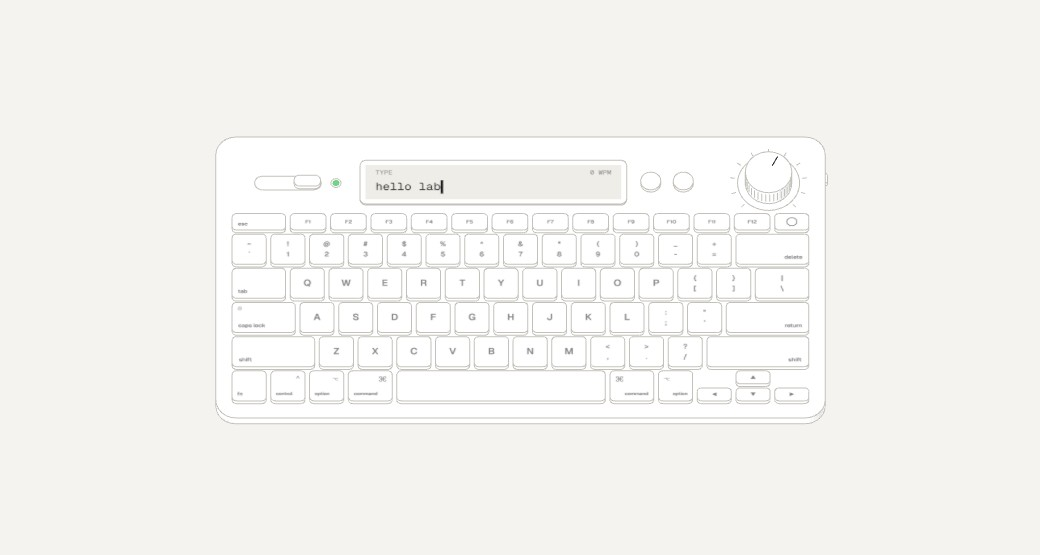
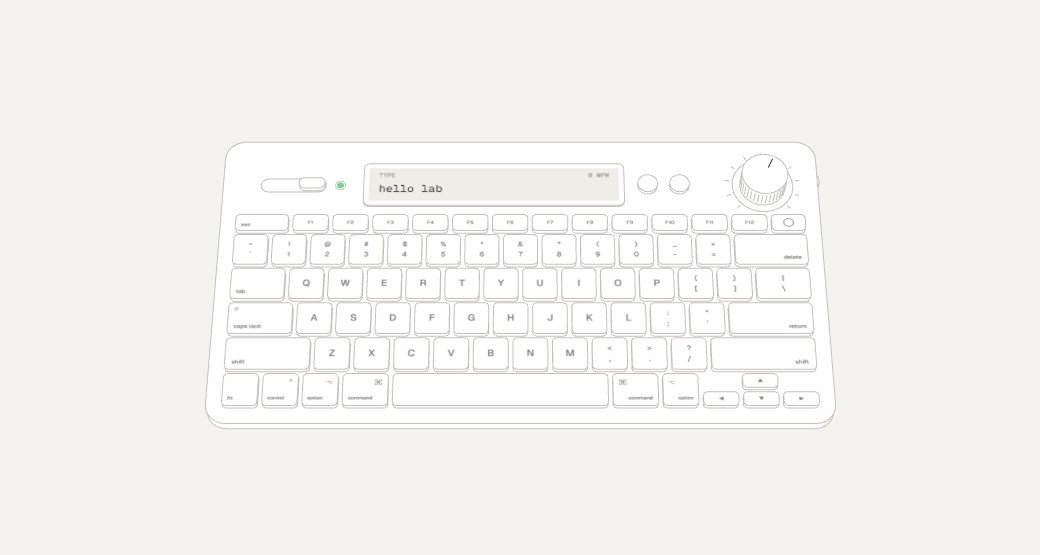
Lab: Keyboard in a gentle real perspective, 30% smaller by default

Changed region(s): [[0.1846, 0.4901, 0.8, 0.7658], [0.2154, 0.245, 0.8, 0.4595]]

diff --git a/lab-board/index.html b/lab-board/index.html
@@ -527,7 +527,7 @@ const PIECES = [
   { slug:'badge', fresh:true, preview:'pieces/badge/?demo=1', title:'Badge', what:'A badge on a lanyard, hanging from two straps spread wide above. Grab it and throw it: it swings and turns about its ring, the straps go slack and taut. Its graphic takes one of seven forms: a stripes generator (lines across the stripes swap their colours, so arrows, Vs, lenses and bowties come out of plain stripes), rays, threads, orbits, blobs, facets, an eye that follows you, or a wall of tiles you can re-deal one by one; the type one of three setups. A tap deals a new one; a panel tunes it all.', year:'2026', kind:'interaction', live:'pieces/badge/', code:'https://github.com/vod123qwe/playground/tree/main/lab-board/pieces/badge', image:'thumbs/badge.jpg?v=3', words:['lanyard', 'verlet', 'op art', 'generator'], rect:{x:1130,y:1180,w:330,h:470} },
   { slug:'cursors', locked:true, preview:'pieces/cursors/?demo=1', variants:4, title:'Cursors', what:'Four cursors over one page, each with a ground to work on: Pixel (a trail of pixels on a grid that shrink and fade, a burst on a click, blended by difference), Spotlight (the page under a veil, the cursor a soft light that opens it), Goo (blobs that melt into one another and invert what they cover) and Snap (a dot that becomes the outline of what you can press, and pulls it). Light or dark; a panel tunes the one on.', year:'2026', kind:'interaction', live:'pieces/cursors/', code:'https://github.com/vod123qwe/playground/tree/main/lab-board/pieces/cursors', image:'thumbs/cursors.jpg', words:['cursor', 'trail', 'hover', 'blend'], rect:{x:2150,y:120,w:400,h:300} },   // (later: back to it after the rest, 06.10.2026)
   { slug:'card-roll', fresh:true, preview:'pieces/card-roll/?demo=1', title:'Card Roll', what:'A wallet of eight payment cards, each its own stock (slate, black metal, coral, contour green, pearl, aurora, sand, volt), solid or frosted glass. Four ways to turn through them: a picker barrel, a roll seen from above, a wallet column and a fan; the cards tip a little with the scroll and the one you stop on comes out. Click it and it comes out to the middle, following the pointer, the rest going soft behind it; click outside and it goes back.', year:'2026', kind:'interaction', live:'pieces/card-roll/', code:'https://github.com/vod123qwe/playground/tree/main/lab-board/pieces/card-roll', image:'thumbs/card-roll.jpg?v=15', words:['wallet', 'cards', 'scroll', '3d'], rect:{x:1590,y:780,w:470,h:330} },
-  { slug:'keyboard', fresh:true, preview:'pieces/keyboard/?demo=1', title:'Keyboard', what:'A flat low-profile keyboard drawn in the line style: low keys in an aluminium slab, every cap outlined, its legend printed on top. Click a key or type on your own keyboard and it goes down with a soft click (Soft, Thock or Crisp, made on the spot) and comes back up. Above the keys a control strip: a mute slide with its light, a volume knob that clicks in steps, a small screen (what you type and your speed, the stats, the time) and two round buttons; the keys light up where you type.', year:'2026', kind:'interaction', live:'pieces/keyboard/', code:'https://github.com/vod123qwe/playground/tree/main/lab-board/pieces/keyboard', image:'thumbs/keyboard.jpg?v=7', words:['keyboard', 'line art', 'sound', 'three.js'], rect:{x:2020,y:1350,w:450,h:240} },
+  { slug:'keyboard', fresh:true, preview:'pieces/keyboard/?demo=1', title:'Keyboard', what:'A flat low-profile keyboard drawn in the line style: low keys in an aluminium slab, every cap outlined, its legend printed on top. Click a key or type on your own keyboard and it goes down with a soft click (Soft, Thock or Crisp, made on the spot) and comes back up. Above the keys a control strip: a mute slide with its light, a volume knob that clicks in steps, a small screen (what you type and your speed, the stats, the time) and two round buttons; the keys light up where you type.', year:'2026', kind:'interaction', live:'pieces/keyboard/', code:'https://github.com/vod123qwe/playground/tree/main/lab-board/pieces/keyboard', image:'thumbs/keyboard.jpg?v=8', words:['keyboard', 'line art', 'sound', 'three.js'], rect:{x:2020,y:1350,w:450,h:240} },
   { empty:true, rect:{x:2560,y:1010,w:280,h:500} },
   { slug:'desk-lamp', locked:true, title:'Desk Lamp', what:'A desk lamp in the dark, one flat grey silhouette built in 3D: rigid arms, a bell shade, a hard white cone of light ending in a pool on the desk. Drag the shade sideways to turn the lamp all the way round, up or down to tip it; drag the base to move it.', year:'2026', kind:'interaction', live:'pieces/desk-lamp/', code:'https://github.com/vod123qwe/playground/tree/main/lab-board/pieces/desk-lamp', image:'thumbs/desk-lamp.jpg?v=4', words:['light', 'flat', '3D', 'turn'], rect:{x:700,y:480,w:420,h:315} },
 ];

diff --git a/lab-board/pieces/keyboard/index.html b/lab-board/pieces/keyboard/index.html
@@ -88,7 +88,7 @@ if (BARE) P = { ...DEF };
 
 // ---------- the renderer, an orthographic camera, the drawing (as in Line Interactions) ----------
 const renderer = new THREE.WebGLRenderer({ antialias: true, alpha: true }); renderer.setPixelRatio(Math.min(devicePixelRatio || 1, 2)); plate.prepend(renderer.domElement);
-const scene = new THREE.Scene(), cam = new THREE.OrthographicCamera(-1, 1, 1, -1, .1, 300);
+const scene = new THREE.Scene(), cam = new THREE.PerspectiveCamera(16, 1, .5, 400), FOV = 16;
 scene.add(new THREE.AmbientLight(0xffffff, 2.5)); const sun = new THREE.DirectionalLight(0xffffff, 1.3); sun.position.set(-6, 10, 8); scene.add(sun);
 const M = { fill: new THREE.MeshLambertMaterial({ color: 0xffffff, side: THREE.DoubleSide, polygonOffset: true, polygonOffsetFactor: 1, polygonOffsetUnits: 1 }),
   line: new THREE.LineBasicMaterial({ color: 0xc4c1ba }), hi: new THREE.LineBasicMaterial({ color: 0x1b1c20 }) };
@@ -279,9 +279,9 @@ let W = 1, H = 1; const FRAME = 450 / 240;
 new ResizeObserver(() => { W = plate.clientWidth || 1; H = plate.clientHeight || 1;
   if (BARE) { const sw = W, sh = H; if (W / H > FRAME) H = W / FRAME; else W = H * FRAME; Object.assign(renderer.domElement.style, { inset: 'auto', width: W + 'px', height: H + 'px', left: (sw - W) / 2 + 'px', top: (sh - H) / 2 + 'px' }); }
   renderer.setSize(W, H, false); wake(); }).observe(plate);
-function placeCam() { const a = W / H, S = Math.max(5, 9.4 / a) / VIEW.z.p / (BARE ? .7 : 1), az = VIEW.dAz.p, el = VIEW.el + VIEW.dEl.p;   // (on the board the keyboard sits 30% smaller in its box)
-  cam.left = -S * a / 2; cam.right = S * a / 2; cam.top = S / 2; cam.bottom = -S / 2; cam.updateProjectionMatrix();
-  cam.position.set(Math.sin(az) * Math.cos(el) * 80, Math.sin(el) * 80, -STRIP / 2 + Math.cos(az) * Math.cos(el) * 80); cam.lookAt(0, 0, -STRIP / 2); }
+function placeCam() { const a = W / H, S = Math.max(5, 9.4 / a) / VIEW.z.p / .7, az = VIEW.dAz.p, el = VIEW.el + VIEW.dEl.p;   // (S: the height of the view at the keyboard; 30% smaller than filling it)
+  const dist = S / 2 / Math.tan(FOV / 2 * Math.PI / 180); cam.aspect = a; cam.updateProjectionMatrix();
+  cam.position.set(Math.sin(az) * Math.cos(el) * dist, Math.sin(el) * dist, -STRIP / 2 + Math.cos(az) * Math.cos(el) * dist); cam.lookAt(0, 0, -STRIP / 2); }
 
 // ---------- the controls ----------
 function setSound(on) { P.sound = on; save(); if (ctl.sound) ctl.sound.set(on); if (on) { snd(); SFX.key(false); } say(on ? 'SOUND ON' : 'MUTED', 900); paint(); }

diff --git a/lab-board/pieces/keyboard/README.md b/lab-board/pieces/keyboard/README.md
@@ -49,3 +49,5 @@ Ustawienia zapisują się w `lab.keyboard.v1`, a tryb jasny lub ciemny w `.mode`
 - W trybie planszy rysunek idzie w ramce 450:240, przyciętej jak obrazek.
 
 Do testów jest `window.KEYS`.
+- Kamera z łagodną prawdziwą perspektywą (wąski obiektyw 16°): dalsza krawędź jest odrobinę mniejsza, jak oczekuje oko (widok bez perspektywy sprawiał, że tył wyglądał na szerszy).
+- Domyślnie klawiatura zajmuje ok. 70% kadru (o 30% mniejsza niż wypełnienie), na stronie i na planszy.
